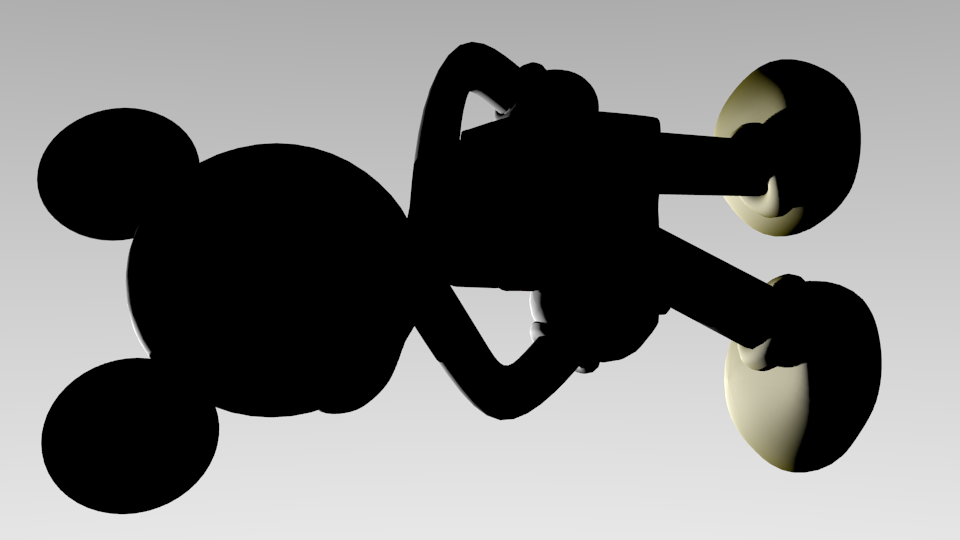
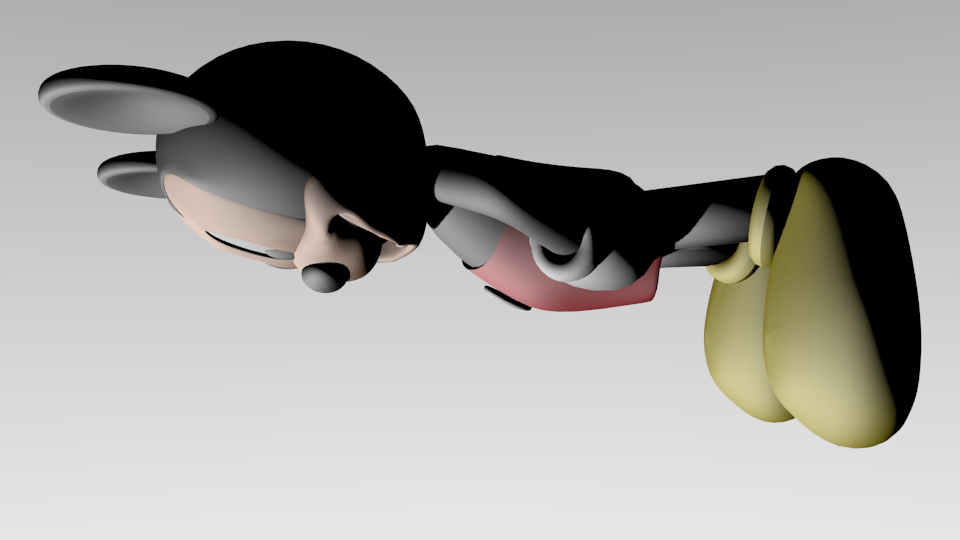
Switch to correct camera angle, previously it was 90 degrees wrong.

diff --git a/Blender/CreateBlenderContent.py b/Blender/CreateBlenderContent.py
@@ -7,15 +7,15 @@ cam = bpy.dataobjects['Camera']
 # Loop to create images from different perspectives.
 for counter in range(0,18):
     # Angle is calculated according to counter.
-    alpha = 10*counter
+    alpha = -5*counter
     # Radius of the circle.
     h     = -1.1
     # Coordinates for the new camera location.
-    x     = sin(radians(-alpha))*h; y= cos(radians(alpha))*h; z= 0
+    x     = sin(radians(alpha))*h; y= cos(radians(alpha))*h; z= 0
     # Set Camera location.
     cam.location = (x,y,z)
     # Camera rotation is set accordingly to new location.
-    cam.rotation_euler = (pi/2-radians(alpha),pi/2,0)
+    cam.rotation_euler = (pi/2+radians(alpha),pi/2,0)
     # Determines where to save image.
     bpy.data.scenes['Scene'].render.filepath = '/home/kaan/image%s.jpg' % counter
     # Renders image.
